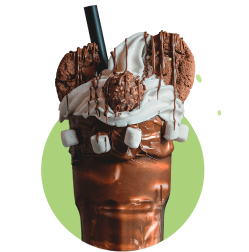
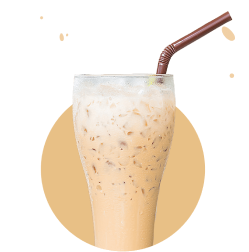
pics in all resolutions added

diff --git a/css/main.min.css b/css/main.min.css
@@ -1,1 +1,1 @@
-.container{width:100%;padding:121px 20px 98px;margin:0 auto}h2,h3,p{margin:0;padding:0}.products__label{display:block;font-family:"Titan One";color:#ffa5ba;font-weight:400;font-size:18px;line-height:21px;text-align:center;margin-bottom:15px}.products__header{font-family:"Titan One";color:#d41443;font-weight:400;font-size:34px;line-height:39px;margin-bottom:144px;letter-spacing:.04em;text-align:center}.products-list{display:-webkit-box;display:-ms-flexbox;display:flex;list-style:none;padding:0;margin:0;-ms-flex-wrap:wrap;flex-wrap:wrap;row-gap:130px}.product{display:-webkit-box;display:-ms-flexbox;display:flex;-webkit-box-orient:vertical;-webkit-box-direction:normal;-ms-flex-direction:column;flex-direction:column;-webkit-box-align:center;-ms-flex-align:center;align-items:center;position:relative;-webkit-box-flex:1;-ms-flex-positive:1;flex-grow:1;-ms-flex-preferred-size:100%;flex-basis:100%;padding:161px 40px 41px}.product--icecream{background-color:#ffb8ca;border-radius:24px;position:relative}.product--icecream::before{content:url("../images/product1.png");position:absolute;top:-114px;left:50%;-webkit-transform:translateX(-50%);transform:translateX(-50%)}.product--coffee{background-color:#f0d1a5;border-radius:24px}.product--coffee::before{content:url("../images/product3.png");position:absolute;top:-114px;left:50%;-webkit-transform:translateX(-50%);transform:translateX(-50%)}.product--milkshake{background-color:#c2e297;border-radius:24px}.product--milkshake::before{content:url("../images/product2.png");position:absolute;top:-114px;left:50%;-webkit-transform:translateX(-50%);transform:translateX(-50%)}.product__name{font-family:"Titan One";font-style:normal;font-weight:400;font-size:20px;text-align:center;letter-spacing:.04em;color:#fff;height:auto;position:relative;padding-bottom:30px;line-height:15px}.product__name::after{content:"...";font-size:21px;letter-spacing:.1em;color:#fff;position:relative;bottom:-30px;left:0}.product__description{padding-top:30px;font-family:"DM Sans";font-weight:700;font-size:14px;line-height:152%;text-align:center;letter-spacing:.04em;color:#fff;margin-bottom:30px}.product-button{display:-webkit-box;display:-ms-flexbox;display:flex;-webkit-box-pack:center;-ms-flex-pack:center;justify-content:center;-webkit-box-align:center;-ms-flex-align:center;align-items:center;width:40px;height:40px;background:#fff;border:none;border-radius:50%}.product-button__icon{width:15px;height:15px;fill:#d41443}@media screen and (min-width: 768px)and (max-width: 1280px){.container{padding:121px 34px 112px}.products__label{font-size:26px;line-height:30px}.products__header{font-size:48px;line-height:55px;margin-bottom:150px}.products-list{-webkit-column-gap:20px;-moz-column-gap:20px;column-gap:20px;row-gap:0}.product{padding:152px 15px 40px;-ms-flex-preferred-size:calc((100% - 40px)/3);flex-basis:calc((100% - 40px)/3)}.product__description{line-height:176%}}@media screen and (min-width: 1280px){.container{padding:125px 113px 120px;max-width:1200px}.products__label{font-size:30px;line-height:34px}.products__header{font-size:58px;line-height:66px;letter-spacing:.06em}.products-list{-webkit-column-gap:27px;-moz-column-gap:27px;column-gap:27px;row-gap:0}.product{-ms-flex-preferred-size:calc((100% - 54px)/3);flex-basis:calc((100% - 54px)/3)}.product__name{font-size:30px;line-height:20px}.product__description{font-size:16px;line-height:176%}}/*# sourceMappingURL=main.min.css.map */
+.container{width:100%;padding:121px 20px 98px;margin:0 auto}h2,h3,p{margin:0;padding:0}.products__label{display:block;font-family:"Titan One";color:#ffa5ba;font-weight:400;font-size:18px;line-height:21px;text-align:center;margin-bottom:15px}.products__header{font-family:"Titan One";color:#d41443;font-weight:400;font-size:34px;line-height:39px;margin-bottom:144px;letter-spacing:.04em;text-align:center}.products-list{display:-webkit-box;display:-ms-flexbox;display:flex;list-style:none;padding:0;margin:0;-ms-flex-wrap:wrap;flex-wrap:wrap;row-gap:130px}.product{display:-webkit-box;display:-ms-flexbox;display:flex;-webkit-box-orient:vertical;-webkit-box-direction:normal;-ms-flex-direction:column;flex-direction:column;-webkit-box-align:center;-ms-flex-align:center;align-items:center;position:relative;-webkit-box-flex:1;-ms-flex-positive:1;flex-grow:1;-ms-flex-preferred-size:100%;flex-basis:100%;padding:161px 40px 41px}.product--icecream{background-color:#ffb8ca;border-radius:24px;position:relative}.product--icecream::before{content:url("../images/product1.png");position:absolute;top:-114px;left:50%;-webkit-transform:translateX(-50%);transform:translateX(-50%)}.product--coffee{background-color:#f0d1a5;border-radius:24px}.product--coffee::before{content:url("../images/product2.png");position:absolute;top:-114px;left:50%;-webkit-transform:translateX(-50%);transform:translateX(-50%)}.product--milkshake{background-color:#c2e297;border-radius:24px}.product--milkshake::before{content:url("../images/product3.png");position:absolute;top:-114px;left:50%;-webkit-transform:translateX(-50%);transform:translateX(-50%)}.product__name{font-family:"Titan One";font-style:normal;font-weight:400;font-size:20px;text-align:center;letter-spacing:.04em;color:#fff;height:auto;position:relative;padding-bottom:30px;line-height:15px}.product__name::after{content:"...";font-size:21px;letter-spacing:.1em;color:#fff;position:relative;bottom:-30px;left:0}.product__description{padding-top:30px;font-family:"DM Sans";font-weight:700;font-size:14px;line-height:152%;text-align:center;letter-spacing:.04em;color:#fff;margin-bottom:30px}.product-button{display:-webkit-box;display:-ms-flexbox;display:flex;-webkit-box-pack:center;-ms-flex-pack:center;justify-content:center;-webkit-box-align:center;-ms-flex-align:center;align-items:center;width:40px;height:40px;background:#fff;border:none;border-radius:50%}.product-button__icon{width:15px;height:15px;fill:#d41443}@media screen and (min-width: 768px)and (max-width: 1280px){.container{padding:121px 34px 112px}.products__label{font-size:26px;line-height:30px}.products__header{font-size:48px;line-height:55px;margin-bottom:150px}.products-list{-webkit-column-gap:20px;-moz-column-gap:20px;column-gap:20px;row-gap:0}.product{padding:152px 15px 40px;-ms-flex-preferred-size:calc((100% - 40px)/3);flex-basis:calc((100% - 40px)/3)}.product__description{line-height:176%}.product--icecream::before{content:url("../images/tb-product1.png");position:absolute;top:-105px}.product--coffee::before{content:url("../images/tb-product2.png");position:absolute;top:-105px}.product--milkshake::before{content:url("../images/tb-product3.png");position:absolute;top:-105px}}@media screen and (min-width: 1280px){.container{padding:125px 113px 120px;max-width:1280px}.products__label{font-size:30px;line-height:34px}.products__header{font-size:58px;line-height:66px;letter-spacing:.06em;margin-bottom:259px}.products-list{-webkit-column-gap:27px;-moz-column-gap:27px;column-gap:27px;row-gap:0}.product{padding:163px 44px 50px;-ms-flex-preferred-size:calc((100% - 54px)/3);flex-basis:calc((100% - 54px)/3);height:auto}.product__name{font-size:30px;line-height:20px}.product__description{font-size:16px;line-height:176%;margin-bottom:62px}.product--icecream::before{content:url("../images/pc-product1.png");position:absolute;top:-210px}.product--coffee::before{content:url("../images/pc-product2.png");position:absolute;top:-210px}.product--milkshake::before{content:url("../images/pc-product3.png");position:absolute;top:-210px}}/*# sourceMappingURL=main.min.css.map */

diff --git a/css/main.css b/css/main.css
@@ -41,7 +41,7 @@ p {
   padding: 0;
   margin: 0;
   -ms-flex-wrap: wrap;
-  flex-wrap: wrap;
+      flex-wrap: wrap;
   row-gap: 130px;
 }
 
@@ -51,17 +51,17 @@ p {
   display: flex;
   -webkit-box-orient: vertical;
   -webkit-box-direction: normal;
-  -ms-flex-direction: column;
-  flex-direction: column;
+      -ms-flex-direction: column;
+          flex-direction: column;
   -webkit-box-align: center;
-  -ms-flex-align: center;
-  align-items: center;
+      -ms-flex-align: center;
+          align-items: center;
   position: relative;
   -webkit-box-flex: 1;
-  -ms-flex-positive: 1;
-  flex-grow: 1;
+      -ms-flex-positive: 1;
+          flex-grow: 1;
   -ms-flex-preferred-size: 100%;
-  flex-basis: 100%;
+      flex-basis: 100%;
   padding: 161px 40px 41px;
 }
 .product--icecream {
@@ -75,31 +75,31 @@ p {
   top: -114px;
   left: 50%;
   -webkit-transform: translateX(-50%);
-  transform: translateX(-50%);
+          transform: translateX(-50%);
 }
 .product--coffee {
   background-color: #f0d1a5;
   border-radius: 24px;
 }
 .product--coffee::before {
-  content: url("../images/product3.png");
+  content: url("../images/product2.png");
   position: absolute;
   top: -114px;
   left: 50%;
   -webkit-transform: translateX(-50%);
-  transform: translateX(-50%);
+          transform: translateX(-50%);
 }
 .product--milkshake {
   background-color: #c2e297;
   border-radius: 24px;
 }
 .product--milkshake::before {
-  content: url("../images/product2.png");
+  content: url("../images/product3.png");
   position: absolute;
   top: -114px;
   left: 50%;
   -webkit-transform: translateX(-50%);
-  transform: translateX(-50%);
+          transform: translateX(-50%);
 }
 
 .product__name {
@@ -130,7 +130,7 @@ p {
   font-family: "DM Sans";
   font-weight: 700;
   font-size: 14px;
-  line-height: 21px;
+  line-height: 152%;
   text-align: center;
   letter-spacing: 0.04em;
   color: #ffffff;
@@ -142,11 +142,11 @@ p {
   display: -ms-flexbox;
   display: flex;
   -webkit-box-pack: center;
-  -ms-flex-pack: center;
-  justify-content: center;
+      -ms-flex-pack: center;
+          justify-content: center;
   -webkit-box-align: center;
-  -ms-flex-align: center;
-  align-items: center;
+      -ms-flex-align: center;
+          align-items: center;
   width: 40px;
   height: 40px;
   background: white;
@@ -175,23 +175,38 @@ p {
   }
   .products-list {
     -webkit-column-gap: 20px;
-    -moz-column-gap: 20px;
-    column-gap: 20px;
+       -moz-column-gap: 20px;
+            column-gap: 20px;
     row-gap: 0;
   }
   .product {
     padding: 152px 15px 40px;
     -ms-flex-preferred-size: calc((100% - 40px) / 3);
-    flex-basis: calc((100% - 40px) / 3);
+        flex-basis: calc((100% - 40px) / 3);
   }
   .product__description {
     line-height: 176%;
+  }
+  .product--icecream::before {
+    content: url("../images/tb-product1.png");
+    position: absolute;
+    top: -105px;
+  }
+  .product--coffee::before {
+    content: url("../images/tb-product2.png");
+    position: absolute;
+    top: -105px;
+  }
+  .product--milkshake::before {
+    content: url("../images/tb-product3.png");
+    position: absolute;
+    top: -105px;
   }
 }
 @media screen and (min-width: 1280px) {
   .container {
     padding: 125px 113px 120px;
-    max-width: 1200px;
+    max-width: 1280px;
   }
   .products__label {
     font-size: 30px;
@@ -201,16 +216,19 @@ p {
     font-size: 58px;
     line-height: 66px;
     letter-spacing: 0.06em;
+    margin-bottom: 259px;
   }
   .products-list {
     -webkit-column-gap: 27px;
-    -moz-column-gap: 27px;
-    column-gap: 27px;
+       -moz-column-gap: 27px;
+            column-gap: 27px;
     row-gap: 0;
   }
   .product {
+    padding: 163px 44px 50px;
     -ms-flex-preferred-size: calc((100% - 54px) / 3);
-    flex-basis: calc((100% - 54px) / 3);
+        flex-basis: calc((100% - 54px) / 3);
+    height: auto;
   }
   .product__name {
     font-size: 30px;
@@ -219,5 +237,21 @@ p {
   .product__description {
     font-size: 16px;
     line-height: 176%;
+    margin-bottom: 62px;
   }
-} /*# sourceMappingURL=main.css.map */
+  .product--icecream::before {
+    content: url("../images/pc-product1.png");
+    position: absolute;
+    top: -210px;
+  }
+  .product--coffee::before {
+    content: url("../images/pc-product2.png");
+    position: absolute;
+    top: -210px;
+  }
+  .product--milkshake::before {
+    content: url("../images/pc-product3.png");
+    position: absolute;
+    top: -210px;
+  }
+}/*# sourceMappingURL=main.css.map */

diff --git a/sass/components/_products.scss b/sass/components/_products.scss
@@ -67,7 +67,7 @@ p {
     background-color: #f0d1a5;
     border-radius: 24px;
     &::before {
-      content: url("../images/product3.png");
+      content: url("../images/product2.png");
       position: absolute;
       top: -114px;
       left: 50%;
@@ -79,7 +79,7 @@ p {
     background-color: #c2e297;
     border-radius: 24px;
     &::before {
-      content: url("../images/product2.png");
+      content: url("../images/product3.png");
       position: absolute;
       top: -114px;
       left: 50%;
@@ -168,13 +168,37 @@ p {
     &__description {
       line-height: 176%;
     }
+
+    &--icecream {
+      &::before {
+        content: url("../images/tb-product1.png");
+        position: absolute;
+        top: -105px;
+      }
+    }
+
+    &--coffee {
+      &::before {
+        content: url("../images/tb-product2.png");
+        position: absolute;
+        top: -105px;
+      }
+    }
+
+    &--milkshake {
+      &::before {
+        content: url("../images/tb-product3.png");
+        position: absolute;
+        top: -105px;
+      }
+    }
   }
 }
 
 @media screen and (min-width: 1280px) {
   .container {
     padding: 125px 113px 120px;
-    max-width: 1200px;
+    max-width: 1280px;
   }
 
   .products__label {
@@ -186,6 +210,7 @@ p {
     font-size: 58px;
     line-height: 66px;
     letter-spacing: 0.06em;
+    margin-bottom: 259px;
   }
 
   .products-list {
@@ -194,7 +219,9 @@ p {
   }
 
   .product {
+    padding: 163px 44px 50px;
     flex-basis: calc((100% - 2 * 27px) / 3);
+    height: auto;
 
     &__name {
       font-size: 30px;
@@ -204,6 +231,31 @@ p {
     &__description {
       font-size: 16px;
       line-height: 176%;
+      margin-bottom: 62px;
+    }
+
+    &--icecream {
+      &::before {
+        content: url("../images/pc-product1.png");
+        position: absolute;
+        top: -210px;
+      }
+    }
+
+    &--coffee {
+      &::before {
+        content: url("../images/pc-product2.png");
+        position: absolute;
+        top: -210px;
+      }
+    }
+
+    &--milkshake {
+      &::before {
+        content: url("../images/pc-product3.png");
+        position: absolute;
+        top: -210px;
+      }
     }
   }
 }
